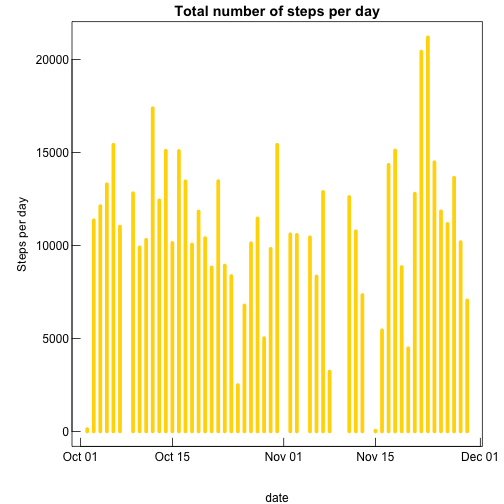
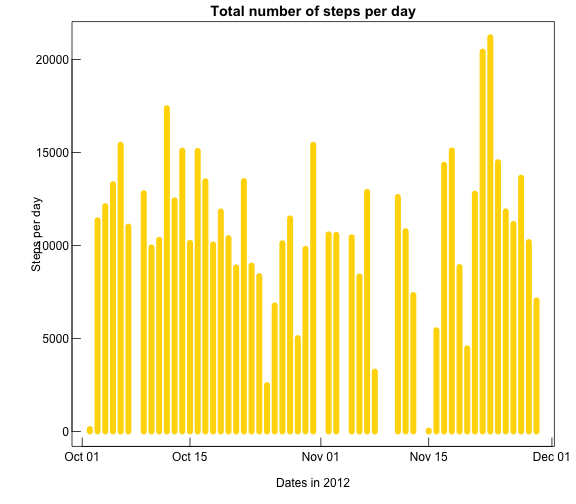
Small changes to histogram size and label.

diff --git a/PA1_template.html b/PA1_template.html
@@ -235,11 +235,12 @@ spd&lt;-ddply(data, .(date), summarize, steps_per_day = sum(steps))
 spd_cc&lt;-na.omit(spd)
 par(mar=c(4,5,1.5,1.5))
 with(spd_cc, plot(date,steps_per_day, type=&quot;h&quot;, 
-                  lwd=5, col=&quot;gold&quot;, main=&quot;Total number of steps per day&quot;, 
-                  ylab=&quot;Steps per day&quot;, las=1,mgp=c(3,0.2,0), tck=0.02))
+                  lwd=8, col=&quot;gold&quot;, main=&quot;Total number of steps per day&quot;,
+                  xlab=&quot;Dates in 2012&quot;, ylab=&quot;Steps per day&quot;, 
+                  las=1,mgp=c(2,0.2,0), tck=0.02))
 </code></pre>
 
[2 lines of base64/hex data omitted]
 
 <p>Calculation of the mean and median total number of steps per day:</p>
 

diff --git a/PA1_template.md b/PA1_template.md
@@ -57,11 +57,13 @@ spd<-ddply(data, .(date), summarize, steps_per_day = sum(steps))
 spd_cc<-na.omit(spd)
 par(mar=c(4,5,1.5,1.5))
 with(spd_cc, plot(date,steps_per_day, type="h", 
-                  lwd=5, col="gold", main="Total number of steps per day", 
-                  ylab="Steps per day", las=1,mgp=c(3,0.2,0), tck=0.02))
+                  lwd=8, col="gold", main="Total number of steps per day",
+                  xlab="Dates in 2012", ylab="Steps per day", 
+                  las=1,mgp=c(2,0.2,0), tck=0.02))
 ```
 
 ![plot of chunk unnamed-chunk-5](figure/unnamed-chunk-5.png) 
+
 
 Calculation of the mean and median total number of steps per day:
 
